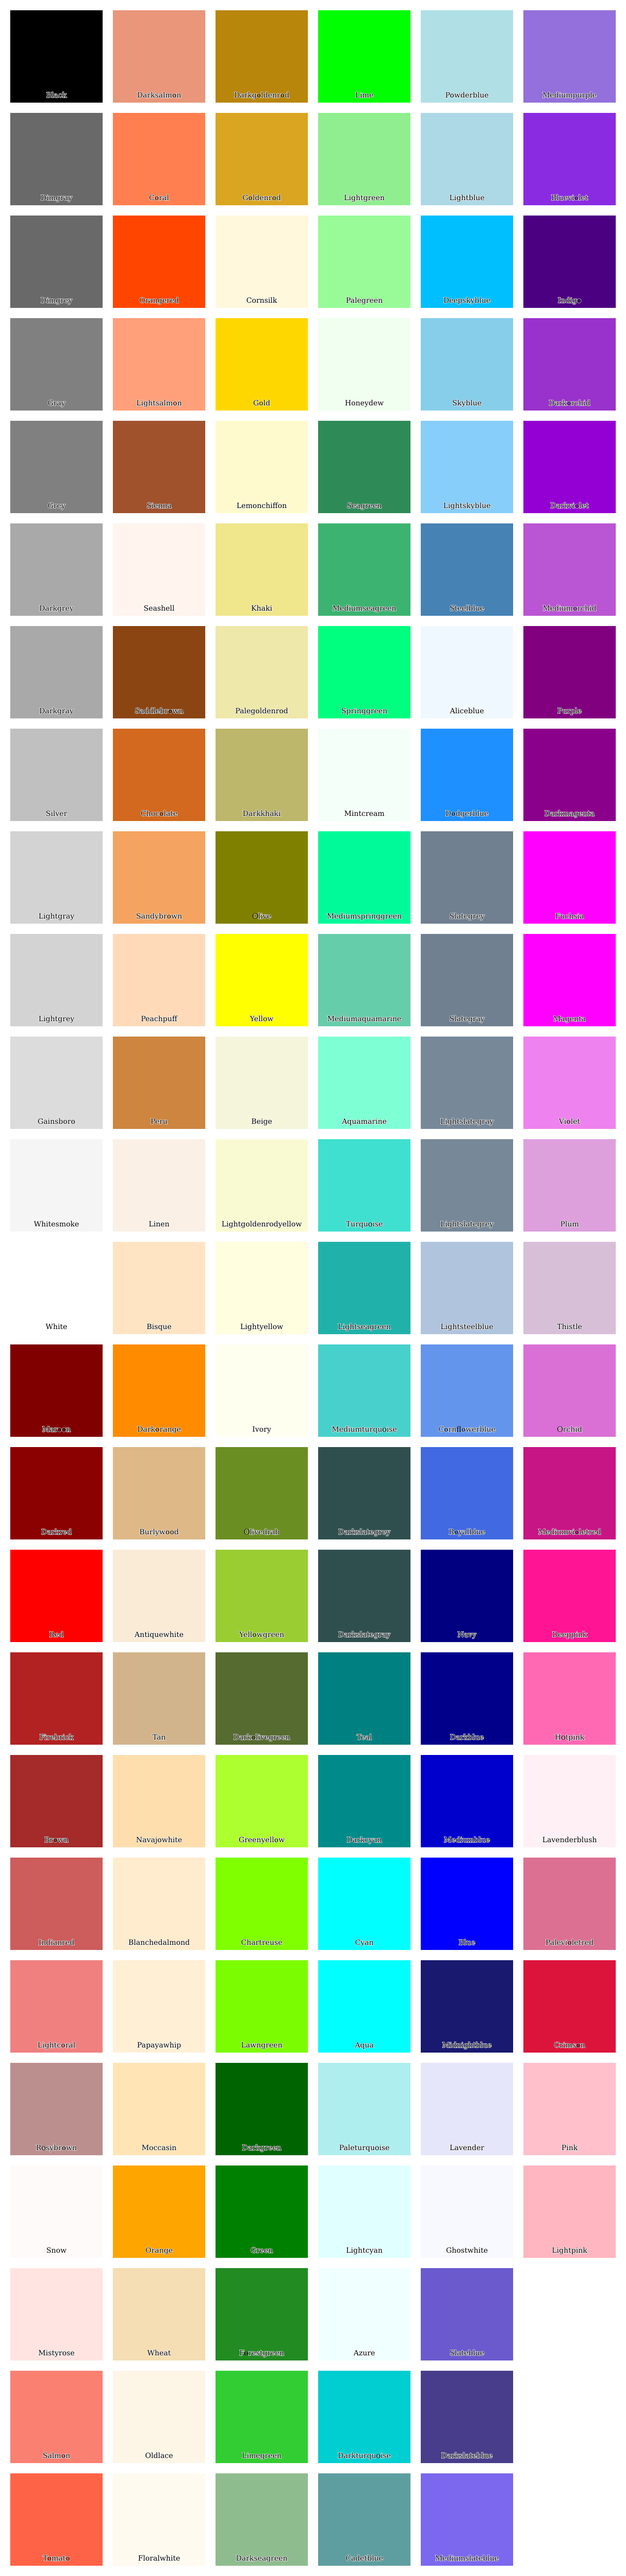
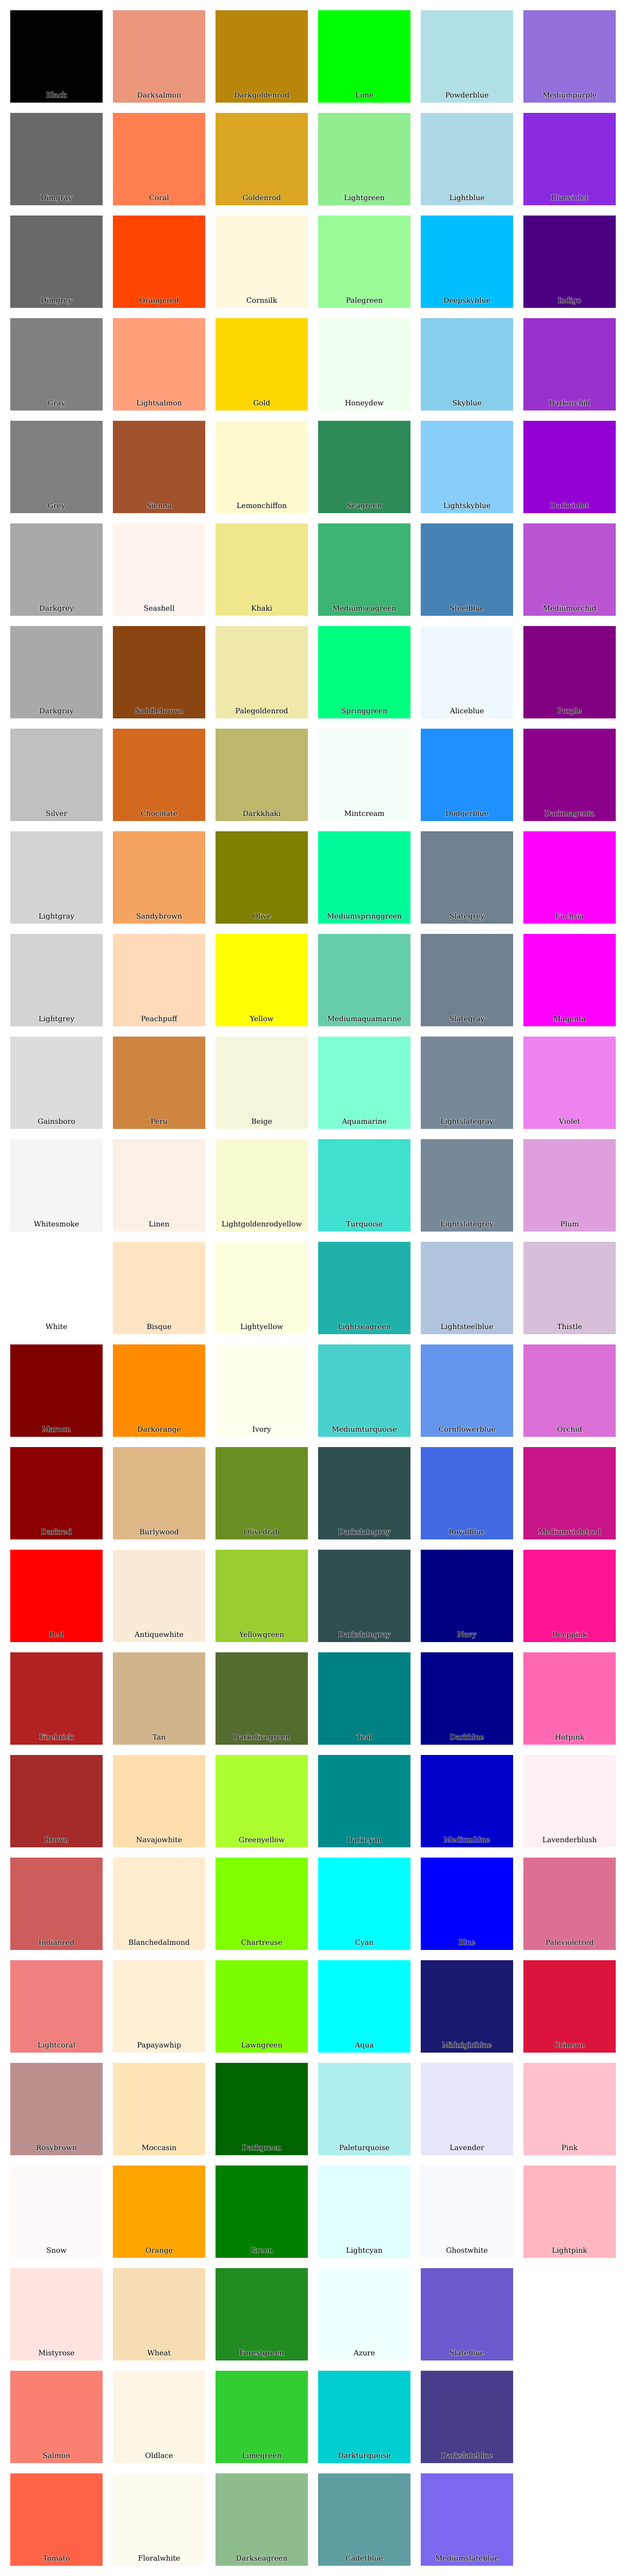
Fix docs/colors after Filling improvement

diff --git a/resources/docs/colors/main.go b/resources/docs/colors/main.go
@@ -9,6 +9,87 @@ import (
 	"github.com/tdewolff/canvas/renderers"
 )
 
+func hue(col color.RGBA) float64 {
+	var hue float64
+	a := float64(col.A) / 255.0
+	r := float64(col.R) / 255.0 / a
+	g := float64(col.G) / 255.0 / a
+	b := float64(col.B) / 255.0 / a
+
+	min := math.Min(r, math.Min(g, b))
+	max := math.Max(r, math.Max(g, b))
+	if min == max {
+		return -1.0
+	} else if r == max {
+		hue = (g - b) / (max - min)
+	} else if g == max {
+		hue = 2.0 + (b-r)/(max-min)
+	} else if b == max {
+		hue = 4.0 + (r-g)/(max-min)
+	}
+	hue *= 60.0
+	if hue < 0.0 {
+		hue += 360.0
+	}
+	return hue
+}
+
+func lum(col color.RGBA) float64 {
+	a := float64(col.A) / 255.0
+	r := float64(col.R) / 255.0 / a
+	g := float64(col.G) / 255.0 / a
+	b := float64(col.B) / 255.0 / a
+	return 0.2126*r + 0.7152*g + 0.0722*b
+}
+
+func main() {
+	font := canvas.NewFontFamily("latin")
+	if err := font.LoadLocalFont("DejaVuSerif", canvas.FontRegular); err != nil {
+		panic(err)
+	}
+
+	// sort by hue
+	indices := make([]int, len(colors))
+	for i := range colors {
+		indices[i] = i
+	}
+	sort.Slice(indices, func(i, j int) bool {
+		if hue(colors[indices[i]]) == hue(colors[indices[j]]) {
+			return lum(colors[indices[i]]) < lum(colors[indices[j]])
+		}
+		return hue(colors[indices[i]]) < hue(colors[indices[j]])
+	})
+
+	c := canvas.New(0.0, 0.0)
+	ctx := canvas.NewContext(c)
+	face := font.Face(2.0)
+
+	for j, idx := range indices {
+		i := j / 25
+		j -= 25 * i
+
+		ctx.SetFillColor(colors[idx])
+		ctx.DrawPath(0.5+10.0*float64(i), -9.5-10.0*float64(j), canvas.Rectangle(9.0, 9.0))
+
+		p, w, _ := face.ToPath(names[idx])
+		p = p.Offset(0.05, canvas.EvenOdd, 0.01)
+		p = p.Translate(-w/2.0, 0.0)
+		ctx.SetFillColor(canvas.Hex("#ffffff88"))
+		ctx.DrawPath(5.0+10.0*float64(i), -9.0-10.0*float64(j), p)
+
+		text := canvas.NewTextLine(face, names[idx], canvas.Center)
+		ctx.DrawText(5.0+10.0*float64(i), -9.0-10.0*float64(j), text)
+	}
+
+	c.Fit(1.0)
+	c.SetZIndex(-1)
+	ctx.SetFillColor(canvas.White)
+	ctx.SetStrokeColor(canvas.Transparent)
+	ctx.DrawPath(0, 0, canvas.Rectangle(c.W, c.H))
+
+	renderers.Write("colors.png", c, canvas.DPMM(20.0))
+}
+
 var names = []string{
 	"Aliceblue",
 	"Antiquewhite",
@@ -307,85 +388,4 @@ var colors = []color.RGBA{
 	canvas.Whitesmoke,
 	canvas.Yellow,
 	canvas.Yellowgreen,
-}
-
-func hue(col color.RGBA) float64 {
-	var hue float64
-	a := float64(col.A) / 255.0
-	r := float64(col.R) / 255.0 / a
-	g := float64(col.G) / 255.0 / a
-	b := float64(col.B) / 255.0 / a
-
-	min := math.Min(r, math.Min(g, b))
-	max := math.Max(r, math.Max(g, b))
-	if min == max {
-		return -1.0
-	} else if r == max {
-		hue = (g - b) / (max - min)
-	} else if g == max {
-		hue = 2.0 + (b-r)/(max-min)
-	} else if b == max {
-		hue = 4.0 + (r-g)/(max-min)
-	}
-	hue *= 60.0
-	if hue < 0.0 {
-		hue += 360.0
-	}
-	return hue
-}
-
-func lum(col color.RGBA) float64 {
-	a := float64(col.A) / 255.0
-	r := float64(col.R) / 255.0 / a
-	g := float64(col.G) / 255.0 / a
-	b := float64(col.B) / 255.0 / a
-	return 0.2126*r + 0.7152*g + 0.0722*b
-}
-
-func main() {
-	font := canvas.NewFontFamily("latin")
-	if err := font.LoadLocalFont("DejaVuSerif", canvas.FontRegular); err != nil {
-		panic(err)
-	}
-
-	// sort by hue
-	indices := make([]int, len(colors))
-	for i := range colors {
-		indices[i] = i
-	}
-	sort.Slice(indices, func(i, j int) bool {
-		if hue(colors[indices[i]]) == hue(colors[indices[j]]) {
-			return lum(colors[indices[i]]) < lum(colors[indices[j]])
-		}
-		return hue(colors[indices[i]]) < hue(colors[indices[j]])
-	})
-
-	c := canvas.New(0.0, 0.0)
-	ctx := canvas.NewContext(c)
-	face := font.Face(2.0)
-
-	for j, idx := range indices {
-		i := j / 25
-		j -= 25 * i
-
-		ctx.SetFillColor(colors[idx])
-		ctx.DrawPath(0.5+10.0*float64(i), -9.5-10.0*float64(j), canvas.Rectangle(9.0, 9.0))
-
-		p, w, _ := face.ToPath(names[idx])
-		p = p.Offset(0.04, canvas.EvenOdd, 0.01)
-		p = p.Translate(-w/2.0, 0.0)
-		ctx.SetFillColor(canvas.White)
-		ctx.DrawPath(5.0+10.0*float64(i), -9.0-10.0*float64(j), p)
-
-		text := canvas.NewTextLine(face, names[idx], canvas.Center)
-		ctx.DrawText(5.0+10.0*float64(i), -9.0-10.0*float64(j), text)
-	}
-
-	c.Fit(1.0)
-	c.SetZIndex(-1)
-	ctx.SetFillColor(canvas.White)
-	ctx.SetStrokeColor(canvas.Transparent)
-	ctx.DrawPath(0, 0, canvas.Rectangle(c.W, c.H))
-
-	renderers.Write("colors.png", c, canvas.DPMM(20.0))
 }
